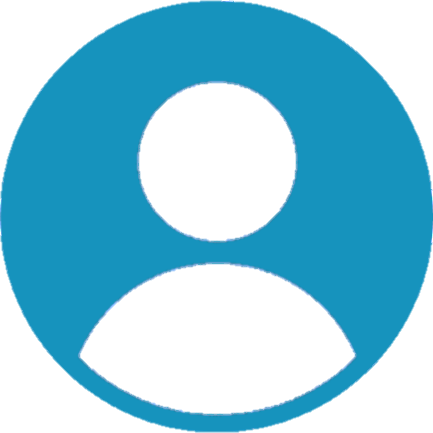
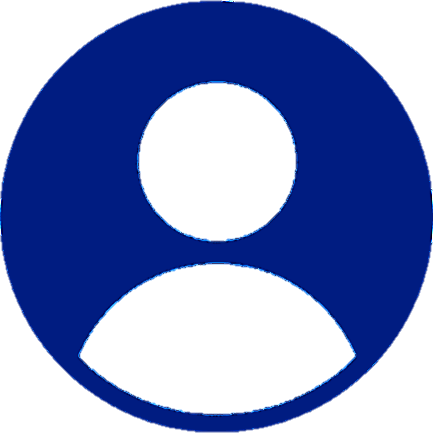
Implementação da Introdução

diff --git a/lib/interface1.dart b/lib/interface1.dart
@@ -1,37 +1,51 @@
 import 'package:flutter/material.dart';
+import 'package:hello_world/main.dart';
 import 'package:url_launcher/url_launcher.dart';
+import 'main.dart';
 import 'interface2.dart';
 
-class Interface1 extends StatelessWidget {
+class Interface1 extends StatefulWidget {
+  @override
+  _Interface1State createState() => _Interface1State();
+}
+
+class _Interface1State extends State<Interface1> {
   final _tUsuario = TextEditingController();
   final _tSenha = TextEditingController();
   final GlobalKey<FormState> _formKey = GlobalKey<FormState>();
   @override
   Widget build(BuildContext context) {
-    return Scaffold(
-      body: Padding(
-        padding: EdgeInsets.only(top: 50.0),
-        child: _body(context),
-      ),
-      bottomNavigationBar: BottomAppBar(
-        child: Container(
-          height: 45.0,
-          child: Row(
-            mainAxisSize: MainAxisSize.max,
-            mainAxisAlignment: MainAxisAlignment.spaceEvenly,
-            children: <Widget>[
-              IconButton(
-                icon: Icon(Icons.home),
-                color: Colors.white,
-                onPressed: _launchURLI,
-              ),
-              Text('Ministério Público Estado do Pará - MPPA',
-                  style: TextStyle(fontSize: 18.0, color: Colors.white))
-            ],
-          ),
+    return WillPopScope(
+      onWillPop: _onBackPressed,
+      child: Scaffold(
+        appBar: PreferredSize(
+          preferredSize: Size.fromHeight(45.0),
+          child: AppBar(),
         ),
-        shape: CircularNotchedRectangle(),
-        color: Colors.blue,
+        body: Padding(
+          padding: EdgeInsets.only(top: 20.0),
+          child: _body(context),
+        ),
+        bottomNavigationBar: BottomAppBar(
+          child: Container(
+            height: 45.0,
+            child: Row(
+              mainAxisSize: MainAxisSize.max,
+              mainAxisAlignment: MainAxisAlignment.spaceEvenly,
+              children: <Widget>[
+                IconButton(
+                  icon: Icon(Icons.home),
+                  color: Colors.white,
+                  onPressed: _launchURLI,
+                ),
+                Text('Ministério Público Estado do Pará - MPPA',
+                    style: TextStyle(fontSize: 18.0, color: Colors.white))
+              ],
+            ),
+          ),
+          shape: CircularNotchedRectangle(),
+          color: Color(0xFF1A237E),
+        ),
       ),
     );
   }
@@ -57,6 +71,32 @@ class Interface1 extends StatelessWidget {
       return "Informe a senha";
     }
     return null;
+  }
+
+  Future<bool> _onBackPressed() {
+    return showDialog(
+          context: context,
+          builder: (BuildContext context) => new AlertDialog(
+            title: new Text('Você tem certeza?'),
+            content: new Text('Você irá voltar para a tela anterior'),
+            actions: <Widget>[
+              new FlatButton(
+                onPressed: () => Navigator.of(context).pop(false),
+                child: new Text('Não'),
+              ),
+              new FlatButton(
+                onPressed: () {
+                  Navigator.push(
+                    context,
+                    MaterialPageRoute(builder: (context) => MyApp()),
+                  );
+                },
+                child: new Text('Sim'),
+              ),
+            ],
+          ),
+        ) ??
+        false;
   }
 
   _body(BuildContext context) {
@@ -119,7 +159,7 @@ class Interface1 extends StatelessWidget {
       height: 45.0,
       margin: EdgeInsets.only(top: 30.0, left: 115.0, right: 115.0),
       child: RaisedButton(
-        color: Colors.blue,
+        color: Color(0xFF1A237E),
         child: Text("Entrar",
             style: TextStyle(color: Colors.white, fontSize: 20.0)),
         onPressed: () {
@@ -134,10 +174,11 @@ class Interface1 extends StatelessWidget {
       height: 45.0,
       margin: EdgeInsets.only(top: 25.0, left: 80.0, right: 80.0),
       child: RaisedButton(
-        shape: RoundedRectangleBorder(side: BorderSide(color: Colors.blue)),
+        shape:
+            RoundedRectangleBorder(side: BorderSide(color: Color(0xFF1A237E))),
         color: Colors.white,
         child: Text("Preciso de Ajuda",
-            style: TextStyle(color: Colors.blue, fontSize: 20.0)),
+            style: TextStyle(color: Color(0xFF1A237E), fontSize: 20.0)),
         onPressed: _launchURLII,
       ),
     );

diff --git a/lib/main.dart b/lib/main.dart
@@ -1,5 +1,8 @@
-import 'package:hello_world/interface1.dart';
 import 'package:flutter/material.dart';
+import 'package:hello_world/interface1.dart';
+import 'package:intro_slider/intro_slider.dart';
+import 'package:intro_slider/slide_object.dart';
+import 'package:intro_slider/scrollbar_behavior_enum.dart';
 
 void main() {
   runApp(MyApp());
@@ -10,7 +13,91 @@ class MyApp extends StatelessWidget {
   Widget build(BuildContext context) {
     return MaterialApp(
         debugShowCheckedModeBanner: false,
-        theme: ThemeData(primaryColor: Colors.blue),
-        home: Interface1());
+        theme: ThemeData(primaryColor: Color(0xFF1A237E)),
+        home: IntroScreen());
+  }
+}
+
+class IntroScreen extends StatefulWidget {
+  IntroScreen({Key key}) : super(key: key);
+
+  @override
+  IntroScreenState createState() => new IntroScreenState();
+}
+
+class IntroScreenState extends State<IntroScreen> {
+  List<Slide> slides = new List();
+
+  @override
+  void initState() {
+    super.initState();
+
+    slides.add(
+      new Slide(
+        marginTitle: EdgeInsets.only(top: 120.0, bottom: 30.0),
+        title: "",
+        styleTitle: TextStyle(
+            color: Color(0xFF1A237E),
+            fontSize: 30.0,
+            fontWeight: FontWeight.bold,
+            fontFamily: 'RobotoMono'),
+        marginDescription: EdgeInsets.only(left: 10.0, right: 10.0, top: 80.0),
+        description:
+            "Aplicativo prático para facilitar a verificação dos seus documentos via GEDOC.",
+        styleDescription: TextStyle(
+            color: Color(0xFF1A237E),
+            fontSize: 25.0,
+            fontStyle: FontStyle.italic,
+            fontFamily: 'Raleway'),
+        pathImage: "images/GEDOC.png",
+        widthImage: 200.0,
+        heightImage: 100.0,
+        colorBegin: Color(0xFFFFFFFF),
+        colorEnd: Color(0xFF1A237E),
+        directionColorBegin: Alignment.topCenter,
+        directionColorEnd: Alignment.bottomCenter,
+        maxLineTextDescription: 3,
+      ),
+    );
+  }
+
+  void onDonePress() {
+    Navigator.push(
+      context,
+      MaterialPageRoute(builder: (context) => Interface1()),
+    );
+  }
+
+  Widget renderDoneBtn() {
+    return Icon(
+      Icons.navigate_next,
+      color: Color(0xFFFFFFFF),
+    );
+  }
+
+  @override
+  Widget build(BuildContext context) {
+    return new IntroSlider(
+      // List slides
+      slides: this.slides,
+
+      // Done button
+      renderDoneBtn: this.renderDoneBtn(),
+      onDonePress: this.onDonePress,
+      colorDoneBtn: Color(0x33000000),
+      highlightColorDoneBtn: Color(0xff000000),
+
+      // Dot indicator
+      colorDot: Color(0xFFFFFFFF),
+      colorActiveDot: Color(0xFFFFFFFF),
+      sizeDot: 13.0,
+
+      // Show or hide status bar
+      shouldHideStatusBar: true,
+      backgroundColorAllSlides: Colors.grey,
+
+      // Scrollbar
+      verticalScrollbarBehavior: scrollbarBehavior.SHOW_ALWAYS,
+    );
   }
 }

diff --git a/lib/interface2.dart b/lib/interface2.dart
@@ -1,5 +1,6 @@
 import 'package:flutter/material.dart';
-import 'main.dart';
+import 'package:hello_world/interface1.dart';
+import 'interface1.dart';
 
 void main() => runApp(Interface2());
 
@@ -37,7 +38,7 @@ class _Interface2State extends State<Interface2> {
             ),
           ),
           shape: CircularNotchedRectangle(),
-          color: Colors.blue,
+          color: Color(0xFF1A237E),
         ),
       ),
     );
@@ -58,7 +59,7 @@ class _Interface2State extends State<Interface2> {
                 onPressed: () {
                   Navigator.push(
                     context,
-                    MaterialPageRoute(builder: (context) => MyApp()),
+                    MaterialPageRoute(builder: (context) => Interface1()),
                   );
                 },
                 child: new Text('Sim'),
@@ -81,7 +82,7 @@ class _Interface2State extends State<Interface2> {
 
   Container imageGEDOC() {
     return Container(
-      margin: EdgeInsets.only(left: 140.0, right: 140.0),
+      margin: EdgeInsets.only(left: 150.0, right: 150.0),
       child: Image.asset(
         'images/GEDOC.png',
         fit: BoxFit.cover,
